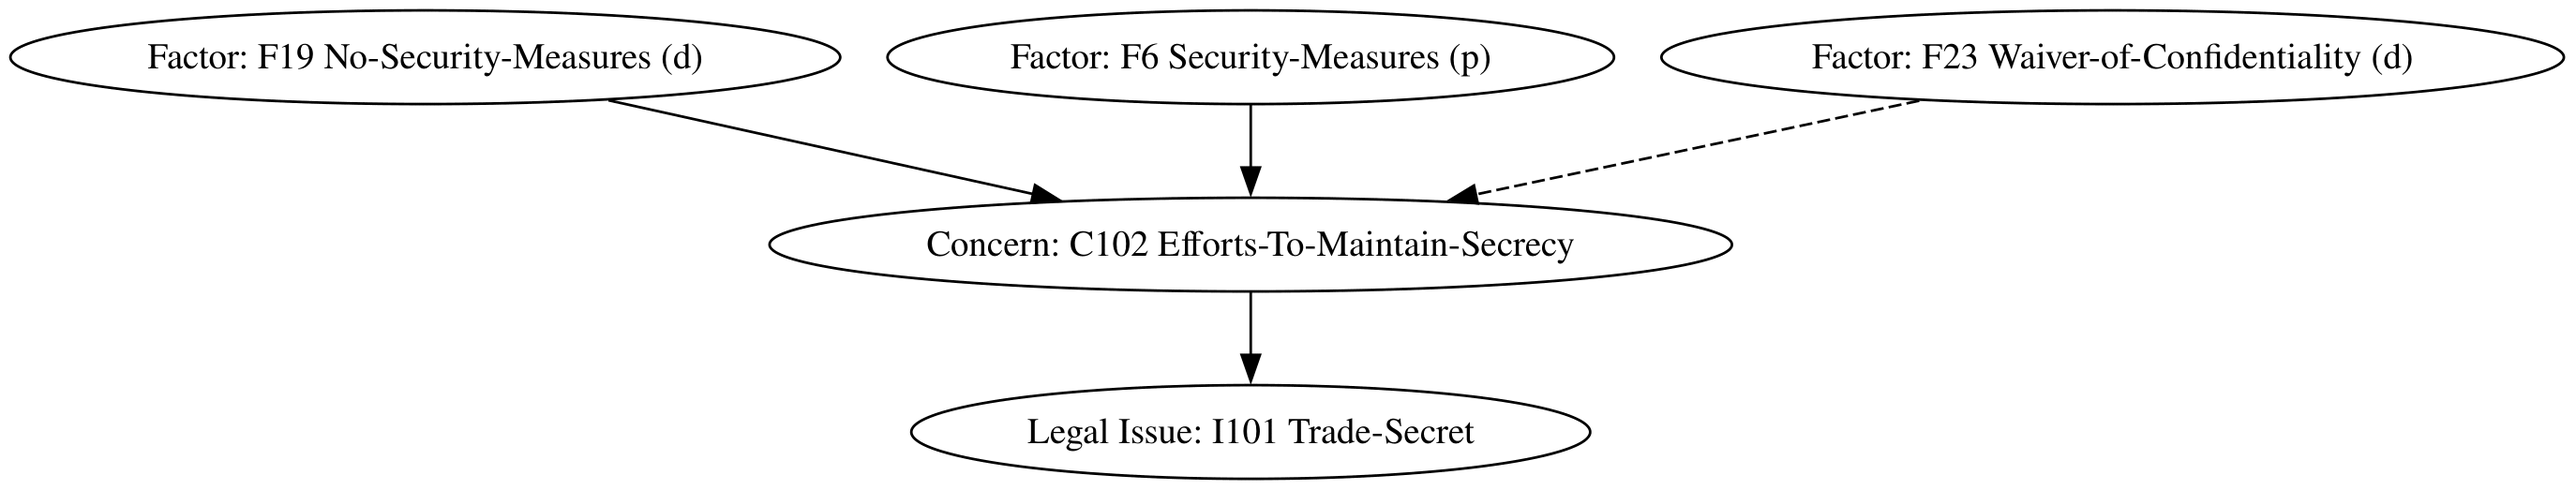
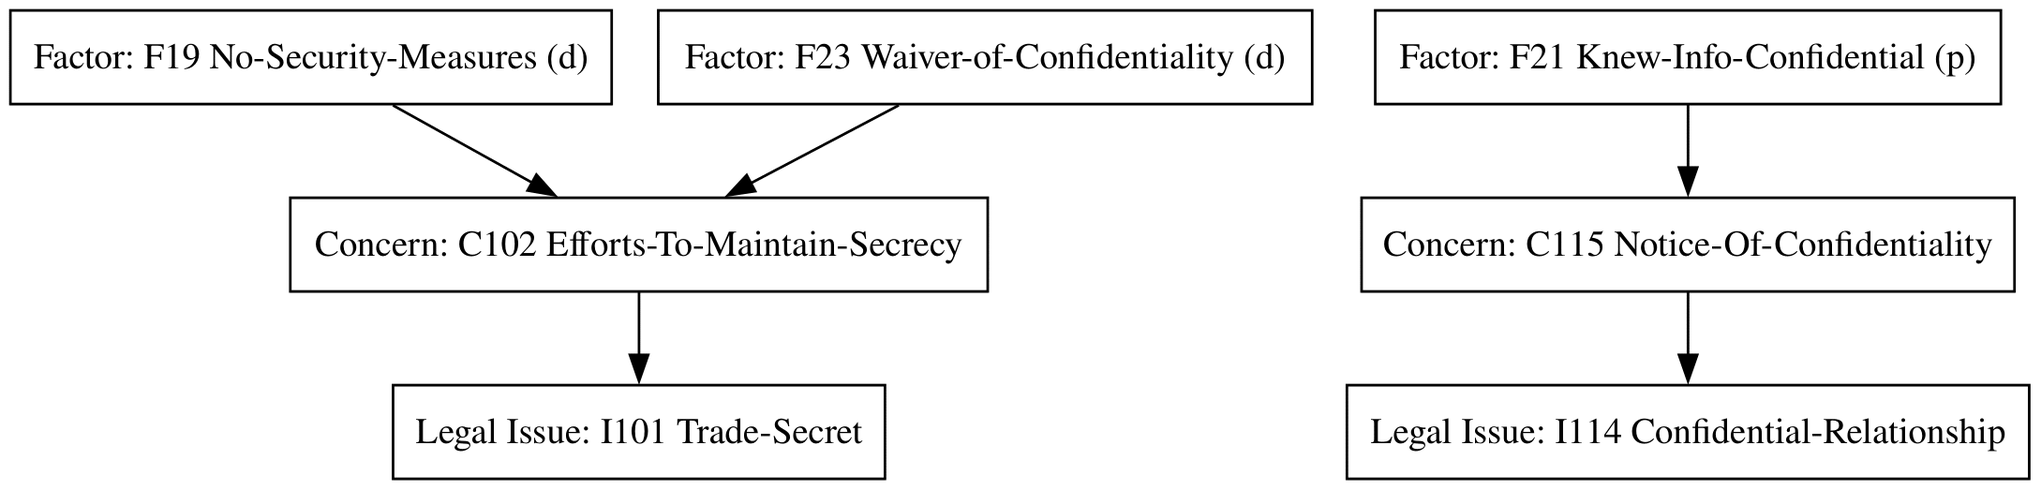
update the example

diff --git a/public/paper.html b/public/paper.html
@@ -701,17 +701,17 @@
                         <div class="boxed">
                             <strong>Example Cases</strong>
                             <ul>
-                                <li><strong>Current Case (C1)</strong>: Company A (plaintiff) is suing a former employee (defendant) for trade secret theft, but they lacked basic security measures.</li>
-                                <li><strong>Precedent Case (C2)</strong>: Company B (plaintiff) won a trade secret lawsuit against a former employee (defendant) because they took extensive security measures (locked facilities, employee confidentiality agreements, restricted access). However, the plaintiff also waived their employees' confidentiality agreement.</li>
+                                <li><strong>Current Case (C1)</strong>: Company A (plaintiff) is suing a former employee (defendant) for trade secret theft. The employee knew the information was confidential. Company A lacked security measures, and they waived their employees' confidentiality agreement.</li>
+                                <li><strong>Precedent Case (C2)</strong>: Company B (plaintiff) lost a trade secret lawsuit against a former employee (defendant) because they lacked security measures.</li>
                             </ul>
                         </div>
 
                         <h3>Factor Representation</h3>
-                        <p>The natural language narratives can be translated into a set of pre-defined factors. A (d) marks a factor favoring the defendant, while (p) favors the plaintiff. For instance, "lacked basic security measures" corresponds to F19_No-Security-Measures(d), which hurts the plaintiff's claim. The factor representations for our example cases are as follows:</p>
+                        <p>The natural language narratives can be translated into a set of pre-defined factors. A (d) marks a factor favoring the defendant, while (p) favors the plaintiff. For instance, "lacked security measures" corresponds to F19_No-Security-Measures(d), which hurts the plaintiff's claim. Conversely, the employee knowing the information was confidential (F21_Knew-Info-Confidential(p)) supports the plaintiff's argument, but waiving confidentiality agreement (F23_Waiver-of-Confidentiality(d)) weakens their claim. The factor representations for our example cases are as follows:</p>
                         <ul>
-                            <li><strong>Current Case (C1) Factors</strong>: F19_No-Security-Measures(d)</li>
-                            <li><strong>Precedent Case (C2) Factors</strong>: F6_Security-Measures(p), F23_Waiver-of-Confidentiality(d)</li>
-                            <li><strong>Precedent (C2) Winner</strong>: Plaintiff</li>
+                            <li><strong>Current Case (C1) Factors</strong>: F19_No-Security-Measures(d), F21_Knew-Info-Confidential(p), F23_Waiver-of-Confidentiality(d)</li>
+                            <li><strong>Precedent Case (C2) Factors</strong>: F19_No-Security-Measures(d)</li>
+                            <li><strong>Precedent (C2) Winner</strong>: Defendant</li>
                         </ul>
 
                         <h3>Task 1: Identify Distinctions</h3>
@@ -719,47 +719,61 @@
                         
                         <div class="boxed">
                             <strong>Analysis of Distinctions</strong>
-                            <p>A distinction is an unshared factor that weakens the analogy between the precedent and the current case.</p>
+                            <p>A distinction is an unshared factor that indicates the precedent case (C2) is not a good analogy for the current case (C1). There are two types of distinctions:</p>
+                            <ol>
+                                <li>A factor favoring C2's winner is present in C2 but absent in C1.</li>
+                                <li>A factor favoring C2's loser is present in C1 but absent in C2.</li>
+                            </ol>
+                            <p>For our example:</p>
                             <ul>
-                                <li><strong>Pro-Plaintiff factor in C2, absent in C1</strong>: F6_Security-Measures(p). This is a distinction because the precedent winner (plaintiff) was strengthened by a factor that the current plaintiff lacks. The defendant in C1 can argue that the precedent is not a good analogy because the plaintiff's victory in C2 relied on F6, which is absent here.</li>
-                                <li><strong>Pro-Defendant factor in C1, absent in C2</strong>: F19_No-Security-Measures(d). This is a distinction because the current case contains a weakness for the plaintiff (a strength for the defendant) that was not present in the precedent.</li>
+                                <li><strong>Question 1.1</strong>: Are there any pro-defendant factors from C2 (the winner) that are absent in C1? C2 has F19_No-Security-Measures(d) which favors the defendant. C1 also has F19_No-Security-Measures(d). Therefore, there are no distinctions from this condition.</li>
+                                <li><strong>Question 1.2</strong>: Are there any pro-plaintiff factors in C1 (favoring C2's loser) that were not in C2? Yes. C1 has F21_Knew-Info-Confidential(p) which favors the plaintiff. C2 does not have this factor. Therefore, F21(p) is a distinction.</li>
                             </ul>
-                            <p><strong>Conclusion for Task 1</strong>: The identified distinctions are F6(p) and F19(d).</p>
+                            <p><strong>Conclusion for Task 1</strong>: The identified distinction is F21(p).</p>
                         </div>
 
                         <h3>Tasks 2 & 3: Analyze and Identify Significant Distinctions</h3>
                         <p>The next steps involve using a legal knowledge hierarchy to determine which distinctions are significant.</p>
 
                         <h4>The Factor Hierarchy</h4>
-                        <p>Factors provide evidence for more abstract legal concerns, which in turn inform high-level legal issues. In our example, the factors relate to the concern C102_Efforts-To-Maintain-Secrecy, which supports the legal issue I101_Trade-Secret.</p>
+                        <p>Factors provide evidence for more abstract legal concerns, which in turn inform high-level legal issues. In our example, we have two legal issues:</p>
+                        <ul>
+                            <li><strong>Legal Issue I101</strong>: Did the plaintiff's information constitute a trade secret?
+                                <ul>
+                                    <li><strong>Concern C102</strong>: Did the plaintiff take efforts to maintain secrecy? This concern is supported or weakened by F23_Waiver-of-Confidentiality(d) and F19_No-Security-Measures(d).</li>
+                                </ul>
+                            </li>
+                            <li><strong>Legal Issue I114</strong>: Was there a confidential relationship?
+                                <ul>
+                                    <li><strong>Concern C115</strong>: Did the defendant have notice of confidentiality? This concern is supported by F21_Knew-Info-Confidential(p).</li>
+                                </ul>
+                            </li>
+                        </ul>
                         
                         <div class="figure-placeholder">
-                            <img src="/illustrative_example.png" alt="Figure 3: An example factor hierarchy for trade secret law, connecting base-level factors to the concern of Efforts-To-Maintain-Secrecy and the legal issue of Trade-Secret. Solid lines indicate strong support and dashed lines indicate weak support; this support can be for or against a concern, depending on which party the factor favors." style="max-width:80%;height:auto" />
-                            <p><strong>Figure 3.</strong> An example factor hierarchy for trade secret law, connecting base-level factors to the concern of Efforts-To-Maintain-Secrecy and the legal issue of Trade-Secret. Solid lines indicate strong support and dashed lines indicate weak support; this support can be for or against a concern, depending on which party the factor favors.</p>
+                            <img src="/illustrative_example.png" alt="Figure 3: An example factor hierarchy for trade secret law, connecting base-level factors to intermediate legal concerns and top-level legal issues. Solid lines indicate strong support and dashed lines indicate weak support; this support can be for or against a concern, depending on which party the factor favors." style="max-width:80%;height:auto" />
+                            <p><strong>Figure 3.</strong> An example factor hierarchy for trade secret law, connecting base-level factors to intermediate legal concerns and top-level legal issues. Solid lines indicate strong support and dashed lines indicate weak support; this support can be for or against a concern, depending on which party the factor favors.</p>
                         </div>
-
-                        <h4>Effective Support and Blocking</h4>
-                        <p>A key step is determining if a factor's support is "effective." Weak evidence can be blocked by strong opposing evidence. For example, F6_Security-Measures(p) provides strong support for C102, while F23_Waiver-of-Confidentiality(d) provides only weak support. In C2, the strong pro-plaintiff support from F6(p) blocks the weak pro-defendant support from F23(d). Therefore, only F6(p) provides effective support for the concern C102 in the precedent case.</p>
 
                         <h4>Emphasis, Downplay, and Significance</h4>
                         <p>The significance of a distinction depends on whether it can be emphasized or downplayed. A distinction is significant if it can be emphasized and cannot be downplayed.</p>
+                        
+                        <p><strong>Definition of Downplaying</strong>: A distinction \(D\) can be downplayed if you can find an ancestor concern \(P\) that meets both conditions: (1) \(P\) is an ancestor of \(D\) in the hierarchy, and (2) In C1, a different factor (\(F_{\text{alt}}\)) provides support for that same concern \(P\).</p>
+                        
+                        <p><strong>Definition of Emphasizing</strong>: A distinction \(D\) can be emphasized if you can find an ancestor concern \(P\) that meets both conditions: (1) \(P\) is an ancestor of \(D\), and (2) The precedent case C2 lacks any factor that provides support for \(P\) (when the distinction favors C2's loser) OR the current case C1 lacks any factor that provides support for \(P\) (when the distinction favors C2's winner).</p>
 
-                        <div class="boxed">
-                            <strong>Analysis of Distinctions</strong>
-                            <ul>
-                                <li><strong>Analysis of F6(p)</strong>: It can be <strong>emphasized</strong> because it provides effective support for concern C102 in C2, and the current case C1 lacks any pro-plaintiff factor to support this concern. It <strong>cannot be downplayed</strong> because C1 has no alternative pro-plaintiff factor to make the same point.</li>
-                                <li><strong>Analysis of F19(d)</strong>: It can be <strong>emphasized</strong> because it provides effective support for C102 in C1, and the precedent case C2 lacks any pro-defendant factor with effective support for this concern (as F23(d) was blocked). It <strong>cannot be downplayed</strong> because C2 has no alternative pro-defendant factor.</li>
-                            </ul>
-                        </div>
+                        <ul>
+                            <li><strong>Analysis of F21(p)</strong>: F21(p) supports C115 (Notice-Of-Confidentiality), which supports I114 (Confidential-Relationship). Since F21(p) favors C2's loser (plaintiff), we check if C2 lacks any factor providing support for C115. The Precedent Case (C2) has no pro-plaintiff factor supporting this concern. The absence of F21(p) in C2 is critical because it leaves this point entirely unsupported for the plaintiff in C2. Therefore, F21(p) <strong>can be emphasized</strong>. For downplaying, C1 has F21(p) as the only pro-plaintiff factor providing support for C115. While C1 also has F23_Waiver-of-Confidentiality(d) and F19_No-Security-Measures(d), these factors favor the defendant, not the plaintiff. Therefore, there is no alternative pro-plaintiff factor that can downplay the distinction. Thus, F21(p) <strong>cannot be downplayed</strong>. Table 1 summarizes the significance analysis for this distinction.</li>
+                        </ul>
 
                         <div class="reviewer-comment">
                             <strong>Legal Argument: Emphasizing a Distinction</strong>
-                            <p><strong>Defendant's Counsel in C1 argues:</strong> "Your Honor, opposing counsel's reliance on the precedent C2 is misplaced. The court in C2 found for the plaintiff largely because they had implemented extensive security measures (F6), which strongly supported the concern of efforts to maintain secrecy (C102). Our current plaintiff, Company A, has no such factor to its name. This is not a minor difference; it is a critical gap in their argument. The very basis for the precedent's ruling is absent here, making the distinction significant."</p>
+                            <p><strong>Plaintiff's Counsel in C1 argues:</strong> "Your Honor, the precedent case C2 is not a good analogy for our current case. In C2, the plaintiff had no factors to support the concern of notice of confidentiality (C115), which supports the legal issue of confidential relationship (I114). However, in our current case C1, we have F21_Knew-Info-Confidential(p), which provides crucial support for C115. The presence of F21(p) in C1 strengthens our position regarding notice of confidentiality, making our case significantly stronger than the plaintiff's position was in C2. This distinction is critical and cannot be dismissed."</p>
                         </div>
 
                         <div class="reviewer-comment">
                             <strong>Legal Argument: Failed Attempt to Downplay</strong>
-                            <p><strong>Plaintiff's Counsel in C1 would need to counter-argue:</strong> To downplay this distinction, the plaintiff would need to show that the underlying concern is still addressed. For instance: "While it is true we did not have the same extensive security measures (F6) as the plaintiff in the precedent, the concern for efforts to maintain secrecy (C102) is met by an alternative factor in our case." However, since Company A has no such alternative factor, this downplaying argument fails, leaving the distinction successfully emphasized by the defendant.</p>
+                            <p><strong>Defendant's Counsel in C1 would need to counter-argue:</strong> To downplay this distinction, the defendant would need to show that the underlying concern C115 (Notice-Of-Confidentiality) is still addressed by alternative factors in C1. However, F21(p) is the only pro-plaintiff factor providing support for C115 in C1. While C1 has F23_Waiver-of-Confidentiality(d) and F19_No-Security-Measures(d), these factors favor the defendant, not the plaintiff. Therefore, there is no alternative pro-plaintiff factor that can downplay the distinction, leaving it successfully emphasized by the plaintiff.</p>
                         </div>
 
                         <table>
@@ -774,13 +788,7 @@
                             </thead>
                             <tbody>
                                 <tr>
-                                    <td>F6(p)</td>
-                                    <td>YES</td>
-                                    <td>NO</td>
-                                    <td><strong>YES</strong></td>
-                                </tr>
-                                <tr>
-                                    <td>F19(d)</td>
+                                    <td>F21(p)</td>
                                     <td>YES</td>
                                     <td>NO</td>
                                     <td><strong>YES</strong></td>
@@ -788,7 +796,7 @@
                             </tbody>
                         </table>
 
-                        <p><strong>Conclusion for Task 3</strong>: Both distinctions are significant. The existence of significant distinctions suggests the precedent C2 should not apply in the current case C1.</p>
+                        <p><strong>Conclusion for Task 3</strong>: The significant distinction is F21(p). The existence of this significant distinction suggests the precedent C2 should not apply in the current case C1.</p>
                     </section>
                     
                     <section id="results">
